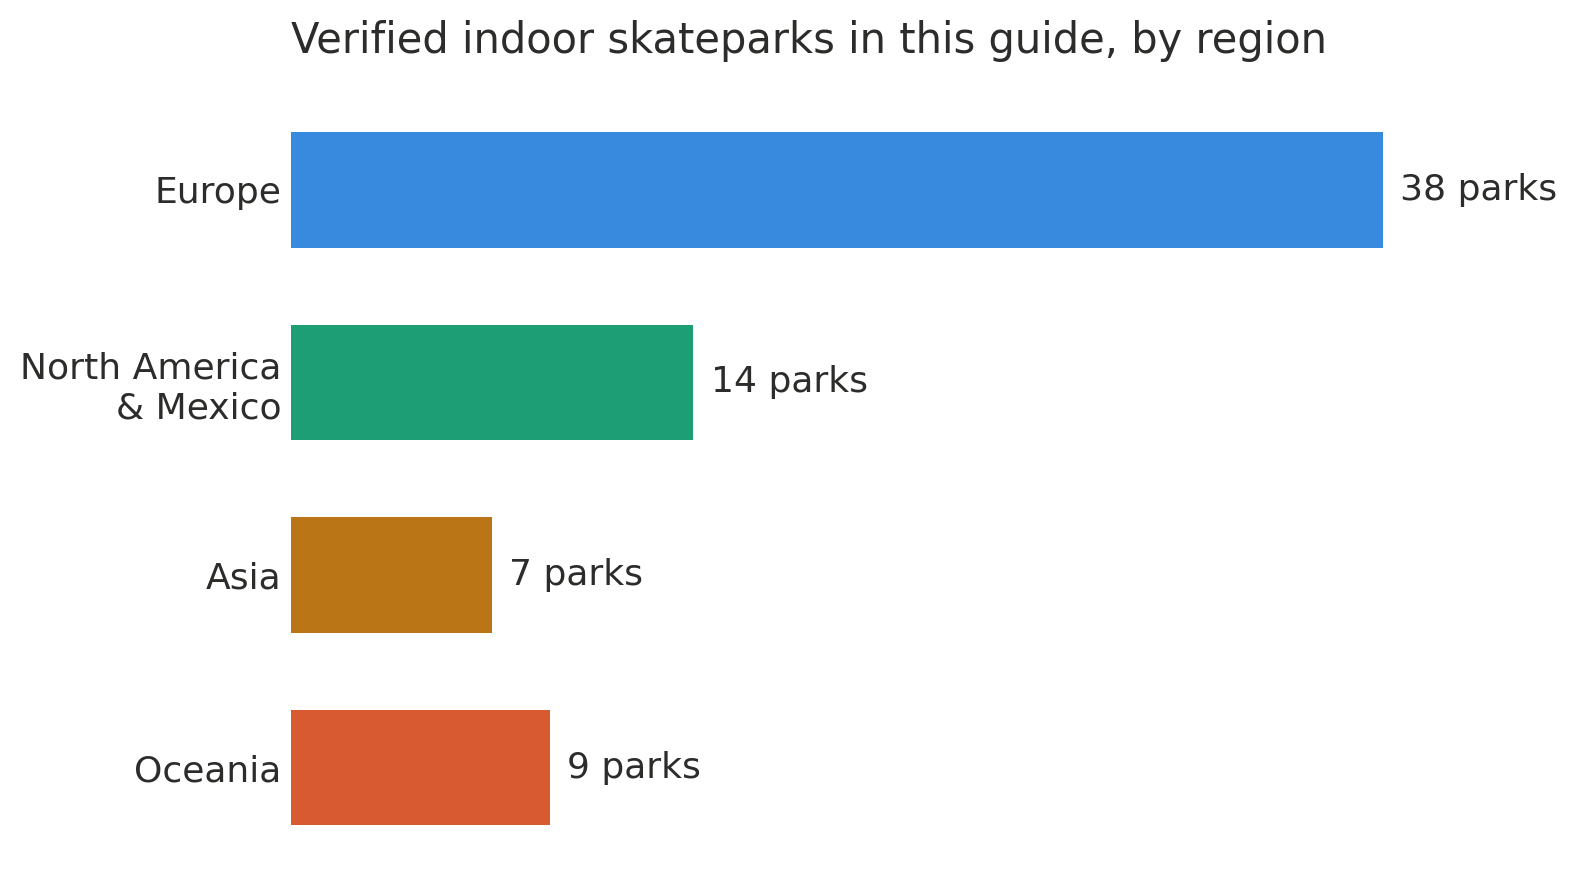
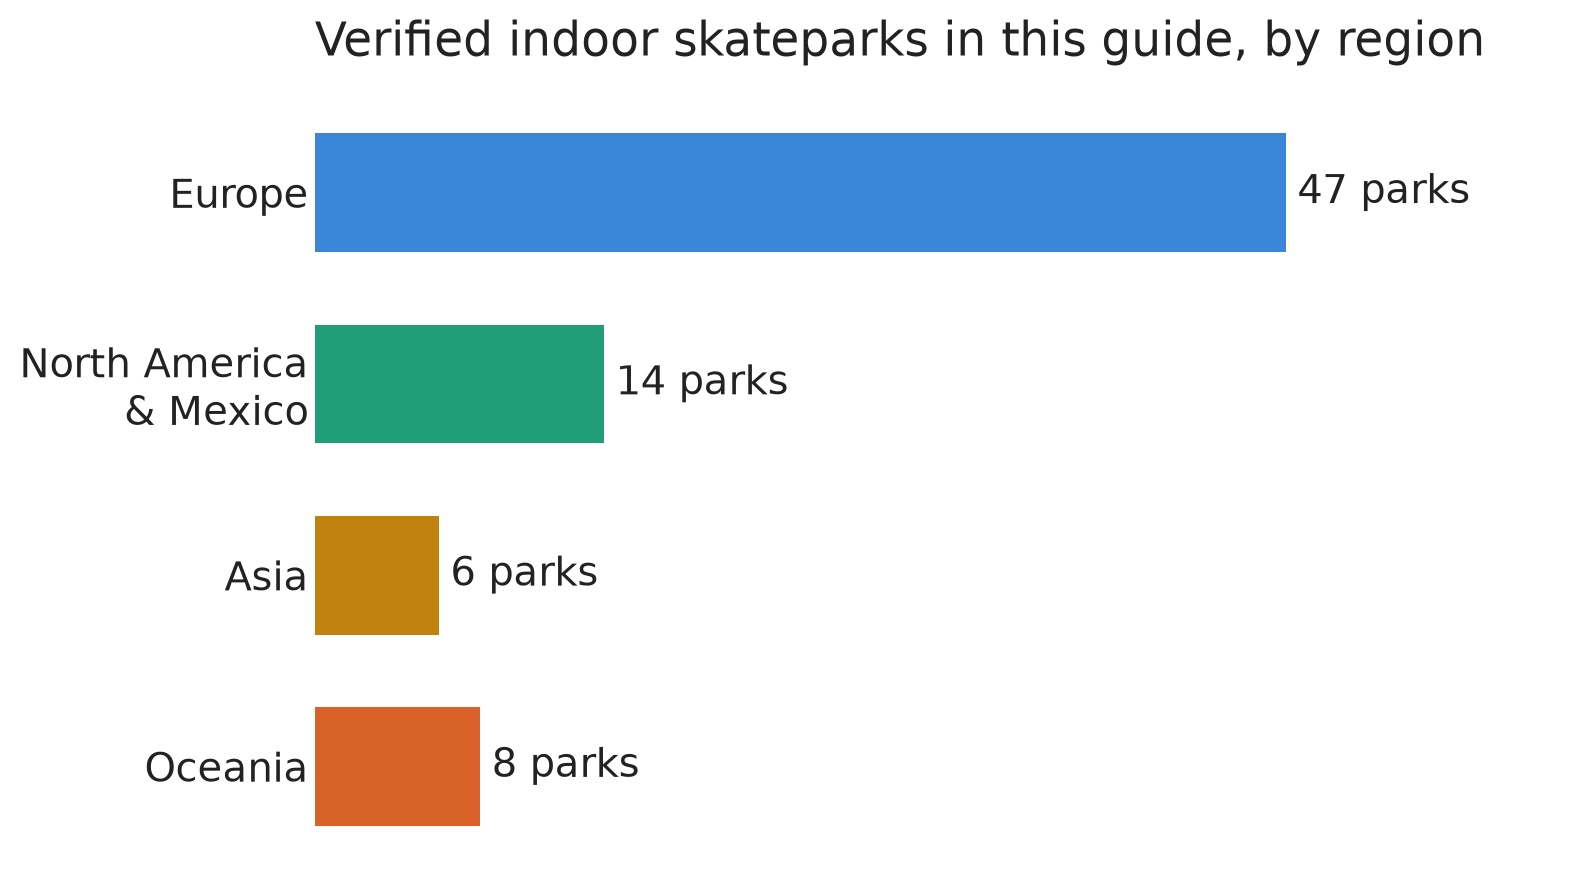
Add 6 verified Danish indoor skateparks to Europe section
Adds Hal22, Vejgaard Skatepark, GAME Streetmekka Viborg, Sonderborg Skatepark, Hal12, and Harboore Skatepark, sourced to skateparks.dk. Europe count 41 to 47, total 75 parks.

Also corrects the stale Quick overview table (was showing outdated 38/14/7/9 counts) and regenerates the region bar-chart image and its alt text to match the new totals.

diff --git a/src/lib/article-embeds/skateparks/verified-indoor-skateparks-world.data.ts b/src/lib/article-embeds/skateparks/verified-indoor-skateparks-world.data.ts
@@ -1,10 +1,25 @@
 // AUTO-GENERERAD av scripts/extract-skateparks.ts (körs som `prebuild`) — redigera inte för hand.
 // Källa: content/articles/en/verified-indoor-skateparks-world.md
-// Senast genererad: 2026-09-08
+// Senast genererad: 2026-09-21
 
 import type { Skatepark } from './types';
 
 export const verifiedIndoorSkateparks: Skatepark[] = [
+  {
+    "id": "la-fievre-hs36",
+    "name": "La Fièvre (HS36)",
+    "location": "Lausanne, Switzerland",
+    "city": "Lausanne",
+    "country": "Switzerland",
+    "region": "Europe",
+    "description": "2,000 m² facility for skateboarding, BMX, and rollerblading, run as an association since 1993, in partnership with the City of Lausanne.",
+    "addresses": [
+      "Av. de Sévelin 36, 1004 Lausanne"
+    ],
+    "website": "fievre.ch",
+    "email": null,
+    "warning": null
+  },
   {
     "id": "rampworx-skatepark",
     "name": "Rampworx Skatepark",
@@ -63,6 +78,96 @@ export const verifiedIndoorSkateparks: Skatepark[] = [
     ],
     "website": "gadeidraet.kk.dk/en/gadeidraet/xhall",
     "email": "gadeidraet@kk.dk",
+    "warning": null
+  },
+  {
+    "id": "hal22",
+    "name": "Hal22",
+    "location": "Grenå, Denmark",
+    "city": "Grenå",
+    "country": "Denmark",
+    "region": "Europe",
+    "description": null,
+    "addresses": [
+      "Rolshøjvej 7, 8500 Grenå"
+    ],
+    "website": "skateparks.dk/skateparks/hal22",
+    "email": null,
+    "warning": null
+  },
+  {
+    "id": "vejgaard-skatepark",
+    "name": "Vejgaard Skatepark",
+    "location": "Aalborg, Denmark",
+    "city": "Aalborg",
+    "country": "Denmark",
+    "region": "Europe",
+    "description": null,
+    "addresses": [
+      "Øster Sundby Vej 23, 9000 Aalborg"
+    ],
+    "website": "skateparks.dk/skateparks/vejgaard-skatepark",
+    "email": null,
+    "warning": null
+  },
+  {
+    "id": "game-streetmekka-viborg",
+    "name": "GAME Streetmekka Viborg",
+    "location": "Viborg, Denmark",
+    "city": "Viborg",
+    "country": "Denmark",
+    "region": "Europe",
+    "description": null,
+    "addresses": [
+      "Nellikevej 2, 8800 Viborg"
+    ],
+    "website": "skateparks.dk/skateparks/game-streetmekka-viborg",
+    "email": null,
+    "warning": null
+  },
+  {
+    "id": "sonderborg-skatepark",
+    "name": "Sønderborg Skatepark",
+    "location": "Sønderborg, Denmark",
+    "city": "Sønderborg",
+    "country": "Denmark",
+    "region": "Europe",
+    "description": null,
+    "addresses": [
+      "Kongevej 47, 6400 Sønderborg"
+    ],
+    "website": "skateparks.dk/skateparks/sonderborg-skatepark",
+    "email": null,
+    "warning": null
+  },
+  {
+    "id": "hal12",
+    "name": "Hal12",
+    "location": "Roskilde, Denmark",
+    "city": "Roskilde",
+    "country": "Denmark",
+    "region": "Europe",
+    "description": null,
+    "addresses": [
+      "Rabalderstræde 30, 4000 Roskilde"
+    ],
+    "website": "skateparks.dk/skateparks/hal12",
+    "email": null,
+    "warning": null
+  },
+  {
+    "id": "harboore-skatepark",
+    "name": "Harboøre Skatepark",
+    "location": "Harboøre, Denmark",
+    "city": "Harboøre",
+    "country": "Denmark",
+    "region": "Europe",
+    "description": null,
+    "addresses": [
+      "Lemvigvej 9, 7673 Harboøre"
+    ],
+    "website": "skateparks.dk/skateparks/harbooere-skatepark",
+    "email": null,
     "warning": null
   },
   {

diff --git a/content/articles/en/verified-indoor-skateparks-world.md b/content/articles/en/verified-indoor-skateparks-world.md
@@ -15,16 +15,16 @@ Rain, snow, or dark winter months shouldn't mean a traveling skater has to sit s
 
 ## Quick overview
 
-![Bar chart showing verified indoor skateparks by region: Europe 38, North America and Mexico 14, Asia 7, Oceania 9](./images/skatepark-regions-overview.png)
+![Bar chart showing verified indoor skateparks by region: Europe 47, North America and Mexico 14, Asia 6, Oceania 8](./images/skatepark-regions-overview.png)
 
 ![World map with color-coded pins showing every verified indoor skatepark location](./images/skateparks-world-map.png)
 
 | Region | Parks in this guide |
 |---|---|
-| Europe | 38 |
+| Europe | 47 |
 | North America & Mexico | 14 |
-| Asia | 7 |
-| Oceania | 9 |
+| Asia | 6 |
+| Oceania | 8 |
 
 ## Europe
 
@@ -52,6 +52,30 @@ Opened 2003 in a former tram-workshop paint shop; hosts the annual Copenhagen Pr
 Municipal facility run by the City of Copenhagen's street sports program, 450 m², three bowls (two birch, one concrete).
 📍 Hillerødgade 53x, 2000 Frederiksberg
 🌐 gadeidraet.kk.dk/en/gadeidraet/xhall · ✉ gadeidraet@kk.dk
+
+**Hal22 – Grenå, Denmark**
+📍 Rolshøjvej 7, 8500 Grenå
+🌐 skateparks.dk/skateparks/hal22
+
+**Vejgaard Skatepark – Aalborg, Denmark**
+📍 Øster Sundby Vej 23, 9000 Aalborg
+🌐 skateparks.dk/skateparks/vejgaard-skatepark
+
+**GAME Streetmekka Viborg – Viborg, Denmark**
+📍 Nellikevej 2, 8800 Viborg
+🌐 skateparks.dk/skateparks/game-streetmekka-viborg
+
+**Sønderborg Skatepark – Sønderborg, Denmark**
+📍 Kongevej 47, 6400 Sønderborg
+🌐 skateparks.dk/skateparks/sonderborg-skatepark
+
+**Hal12 – Roskilde, Denmark**
+📍 Rabalderstræde 30, 4000 Roskilde
+🌐 skateparks.dk/skateparks/hal12
+
+**Harboøre Skatepark – Harboøre, Denmark**
+📍 Lemvigvej 9, 7673 Harboøre
+🌐 skateparks.dk/skateparks/harbooere-skatepark
 
 **Bryggeriet Malmö Skatepark – Malmö, Sweden**
 Membership-based association, open through the winter season, hosts Vert Attack.
